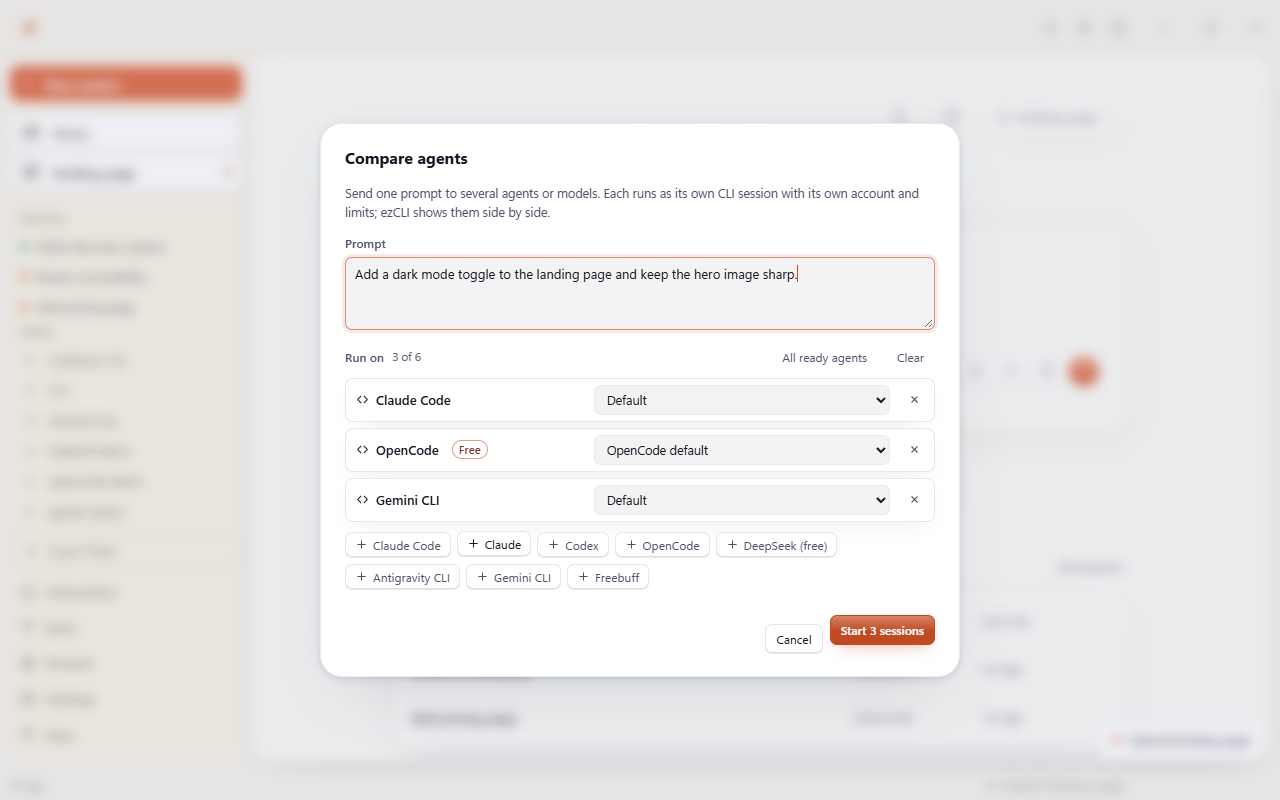
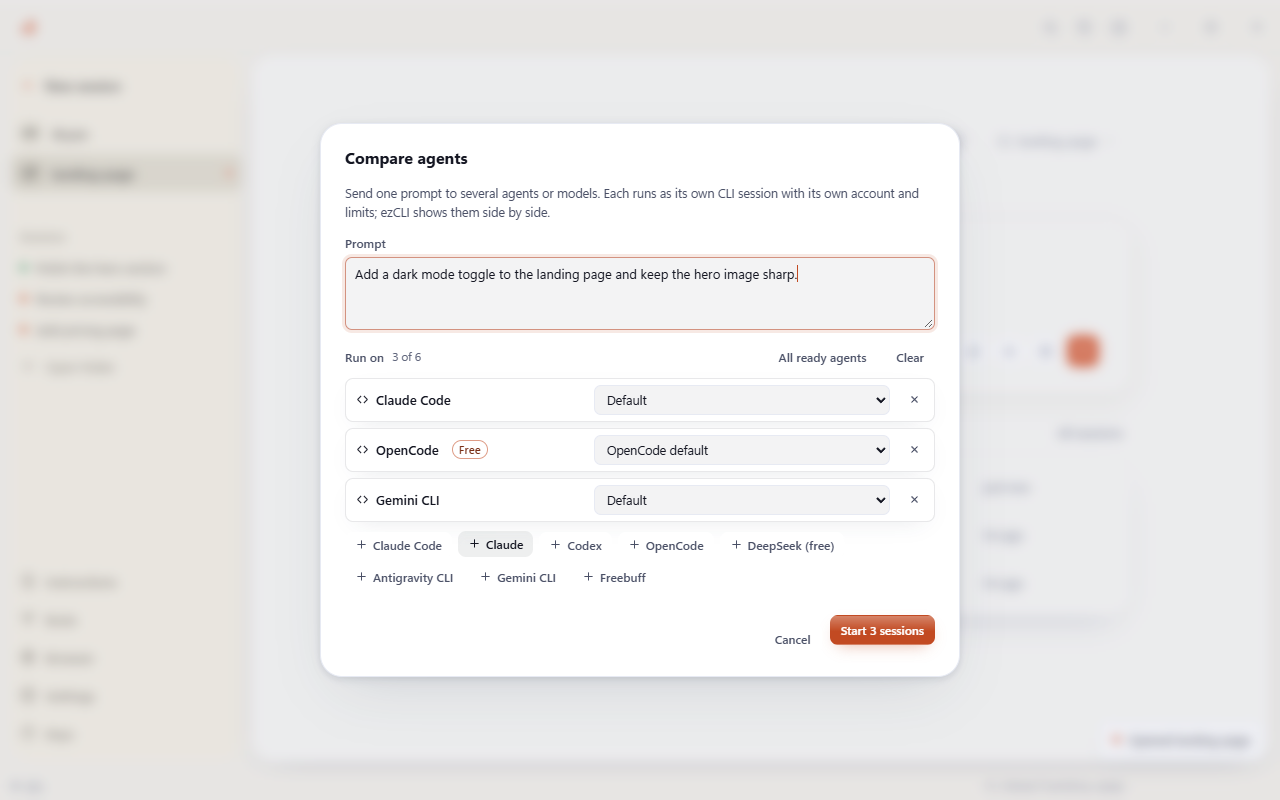
v3.0.0: calm redesign, see-through terminal, new README and screenshots

diff --git a/public/features/calm.css b/public/features/calm.css
@@ -343,3 +343,39 @@ html[data-layout='calm'] .home .dash-hero { width: 100%; box-sizing: border-box;
 :root:root[data-layout='calm'] :is(.chip, .head-chip, .btn:not(.primary), .open-in-primary, .open-in-menu-trigger):hover:not(:disabled) {
   background-color: color-mix(in srgb, var(--ink, #1f1d19) 7%, transparent);
 }
+
+/* ===================== see-through terminal =====================
+ * The terminal's own background is transparent; the pane supplies a translucent,
+ * blurred tint of the palette colour, so the window shows faintly through it. */
+:root[data-term-glass='on'] .terminal-panel {
+  background: linear-gradient(180deg, rgb(255 255 255 / 5%), rgb(255 255 255 / 0%) 45%), color-mix(in srgb, var(--term-bg) 91%, transparent);
+  -webkit-backdrop-filter: blur(18px) saturate(1.15);
+  backdrop-filter: blur(18px) saturate(1.15);
+  box-shadow: inset 0 0 0 1px rgb(255 255 255 / 7%), 0 10px 30px -18px rgb(30 24 12 / 45%);
+}
+:root[data-term-glass='on'] .terminal-panel .xterm-viewport { background-color: transparent !important; }
+
+/* ===================== polish ===================== */
+html[data-layout='calm'] ::selection { background: color-mix(in srgb, var(--brand) 26%, transparent); }
+html[data-layout='calm'] .home .dash-hero .composer-box:focus-within {
+  box-shadow: 0 0 0 1px color-mix(in srgb, var(--brand) 38%, transparent), 0 10px 34px rgb(40 30 10 / 9%);
+}
+html[data-layout='calm'] #ptyComposer:focus-within { box-shadow: 0 0 0 1px color-mix(in srgb, var(--brand) 34%, transparent); }
+html[data-layout='calm'] .home .dash-hero .composer-box,
+html[data-layout='calm'] #ptyComposer { transition: box-shadow 0.18s ease, border-color 0.18s ease; }
+html[data-layout='calm'] .home .session-trow { transition: background-color 0.12s ease; border-radius: 10px; }
+html[data-layout='calm'] .home .session-trow:hover { background: color-mix(in srgb, var(--ink, #1f1d19) 5%, transparent); }
+html[data-layout='calm'] .home .session-trow .session-name { font-weight: 500; }
+html[data-layout='calm'] .home #homeTitle { text-wrap: balance; }
+html[data-layout='calm'] .rail,
+html[data-layout='calm'] .rail-sessions { scrollbar-width: thin; scrollbar-color: color-mix(in srgb, var(--rf-dim) 40%, transparent) transparent; }
+html[data-layout='calm'] .rail-new, html[data-layout='calm'] .space, html[data-layout='calm'] .rail-session, html[data-layout='calm'] .rail-btn {
+  transition: background-color 0.12s ease, color 0.12s ease;
+}
+html[data-layout='calm'] .rail-new:active, html[data-layout='calm'] .space:active, html[data-layout='calm'] .rail-session:active { background: var(--rf-active); }
+html[data-layout='calm'] .main { box-shadow: 0 1px 2px rgb(40 30 10 / 5%), 0 18px 40px -26px rgb(40 30 10 / 30%); }
+html[data-layout='calm'] .session-head .head-title { letter-spacing: -0.005em; }
+html[data-layout='calm'] .statusbar { font-size: 11.5px; opacity: 0.9; }
+@media (prefers-reduced-motion: reduce) {
+  html[data-layout='calm'] * { transition: none !important; }
+}

diff --git a/public/app.js b/public/app.js
@@ -163,10 +163,15 @@ const TERM_LINES = { compact: 1.15, comfortable: 1.35, relaxed: 1.55 };
 /** The terminal paints an opaque background that matches its pane exactly (the pane
  *  colour changes with the palette). A transparent terminal looks fine in the HTML
  *  renderer but the GPU renderer composites it as black boxes behind the text. */
+/** A see-through terminal needs the HTML renderer; the GPU renderer cannot do it. */
+const termGlass = () => prefs.termGlass !== false && prefs.gpu !== true;
+
 function syncTermBackground() {
   const bg = getComputedStyle(document.documentElement).getPropertyValue('--term-bg').trim() || '#15171d';
-  TERM_THEMES.dark.background = bg;
+  const glass = termGlass();
+  TERM_THEMES.dark.background = glass ? 'rgba(0, 0, 0, 0)' : bg;
   TERM_THEMES.dark.cursorAccent = bg;
+  document.documentElement.dataset.termGlass = glass ? 'on' : 'off';
 }
 
 /** One configuration for every terminal in the app. */
@@ -189,7 +194,7 @@ function termOptions(extra = {}) {
     rescaleOverlappingGlyphs: true,
     smoothScrollDuration: 70,
     allowProposedApi: true,
-    allowTransparency: false,
+    allowTransparency: termGlass(),
     theme: TERM_THEMES[resolvedTheme()],
     scrollback: 20000,
     ...extra
@@ -289,7 +294,8 @@ function syncGpu() {
 function applyTermPrefs() {
   const o = termOptions();
   for (const s of state.sessions) {
-    for (const k of ['fontFamily', 'fontSize', 'lineHeight', 'cursorStyle', 'cursorBlink']) s.term.options[k] = o[k];
+    for (const k of ['fontFamily', 'fontSize', 'lineHeight', 'cursorStyle', 'cursorBlink', 'allowTransparency']) s.term.options[k] = o[k];
+    s.term.options.theme = { ...o.theme, cursor: s.term.options.theme && s.term.options.theme.cursor };
   }
   requestAnimationFrame(() => state.sessions.forEach(fitSession));
 }

diff --git a/public/features/desktop.js b/public/features/desktop.js
@@ -239,6 +239,8 @@ hooks.boot.push(() => {
       });
       $('termBlink').checked = prefs.termBlink !== false;
       $('termGpu').checked = prefs.gpu === true;
+      $('termGlass').checked = prefs.termGlass !== false;
+      $('termGlass').disabled = prefs.gpu === true;
     };
     const change = (key, value) => {
       prefs[key] = value;
@@ -256,11 +258,14 @@ hooks.boot.push(() => {
       if (b) change('termCursor', b.dataset.termCursor);
     });
     $('termBlink').addEventListener('change', (e) => change('termBlink', e.target.checked));
+    $('termGlass').addEventListener('change', (e) => change('termGlass', e.target.checked));
     $('termGpu').addEventListener('change', (e) => {
       prefs.gpu = e.target.checked;
       savePrefs();
       for (const s of state.sessions) setGpu(s, false);
       syncGpu();
+      applyTermPrefs();
+      syncTermUi();
     });
     syncTermUi();
   }

diff --git a/public/index.html b/public/index.html
@@ -367,6 +367,7 @@
               <button class="theme-option" data-term-cursor="underline" role="radio">Underline</button>
             </div></div>
           <label class="toggle-row"><input type="checkbox" id="termBlink" /> <span>Blinking cursor</span></label>
+          <label class="toggle-row"><input type="checkbox" id="termGlass" /> <span>See-through terminal (the pane lets the window colour show through; off while the graphics-card renderer is on)</span></label>
           <label class="toggle-row"><input type="checkbox" id="termGpu" /> <span>Draw the terminal with the graphics card (experimental: faster on huge output, but text can look tighter on a 100% display)</span></label>
         </div>
         <div class="stepper">

diff --git a/README.md b/README.md
@@ -3,7 +3,7 @@
 </p>
 
 <p align="center">
-  A liquid-glass desktop window for Claude Code, Codex, OpenCode, Antigravity, Gemini CLI, Ollama and Freebuff.
+  A calm desktop window for Claude Code, Codex, OpenCode, Antigravity, Gemini CLI, Ollama and Freebuff.
 </p>
 
 ---
@@ -14,7 +14,7 @@ The window adds the parts a bare terminal lacks: tabs, an agent switcher, a file
 browser with git actions, model, effort and mode flags you pick before launch, images and
 videos in the chat, and a compare mode that runs one prompt on several agents at once.
 
-![The calm home screen: one message box, quick starts and recent sessions](docs/screenshot-launcher.png)
+![The calm home screen: one message box, your sessions in the sidebar](docs/screenshot-launcher.png)
 
 ![The same home screen in the dark Midnight theme](docs/screenshot-launcher-dark.png)
 
@@ -132,6 +132,28 @@ catalog entry.
   nothing, and every PC shows the same list.
 - **Safer sending.** One Enter in the composer submits one message. ezCLI never types
   into a CLI's update, trust or sign-in question.
+
+### New in 3.0.0
+
+The calm redesign, as a major release.
+
+- **A new look, modelled on the Claude desktop app.** A warm Sand theme, a labelled
+  sidebar with New session, your projects, the open project's sessions with
+  stars, and Instructions, Brain, Browser, Settings. The tab strip steps aside on
+  wide windows; the sidebar is the session switcher. A quiet home screen with one
+  message box, and a composer footer with mode on the left and agent, model and
+  effort on the right. Flat, borderless buttons. Turn it off under
+  **Settings, Calm layout** for the old dashboard.
+- **See-through terminal.** The terminal background is now transparent over a
+  softly blurred pane, so the window colour shows faintly through it. Settings has
+  a switch; it turns itself off while the experimental graphics-card renderer is on.
+- **Project instructions** editor for `CLAUDE.md`, `AGENTS.md` and `GEMINI.md`.
+- **Terminal:** bundled JetBrains Mono, slash-command suggestions, clickable file
+  paths, Ctrl + wheel text size, copy terminal output, find in output.
+- **Fixes from a full scan.** Every theme in both layouts was checked for duplicate
+  ids, unnamed buttons and low-contrast text; the sidebar, active project name and
+  Done button contrast were fixed. A lone tab no longer collapses, the session header
+  no longer squeezes the title, and header buttons no longer wrap.
 
 ### New in 2.10.0
 
